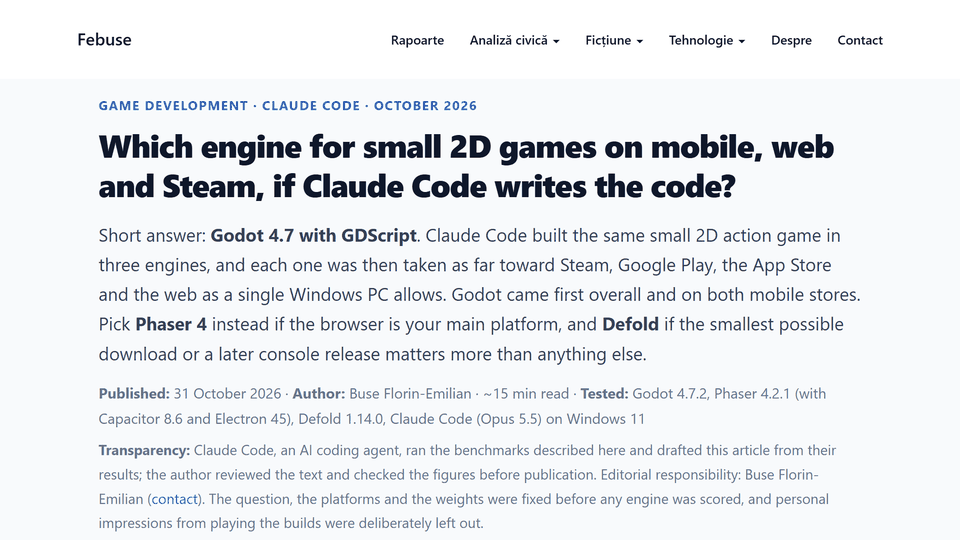
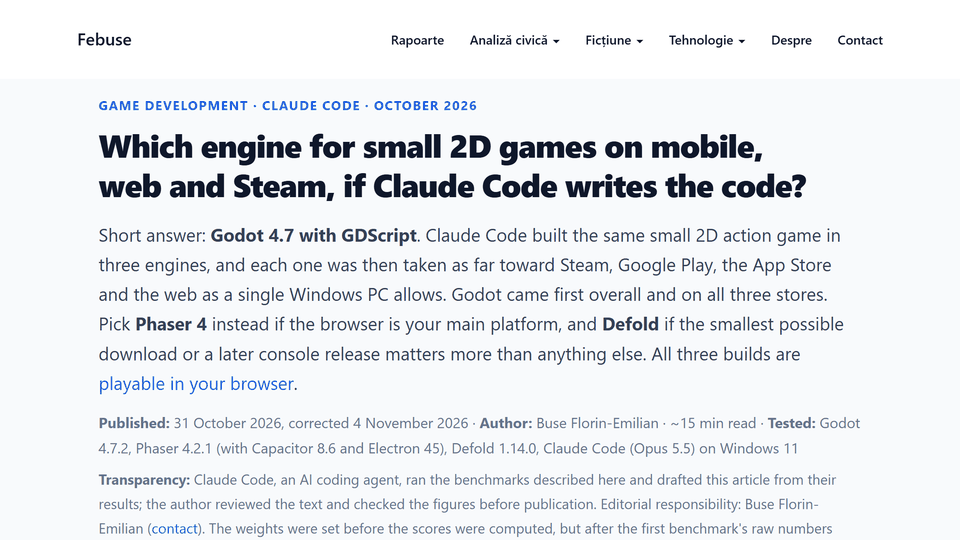
fix: correct the GodotSteam score and the weights note in the engine article
GodotSteam 4.23.2 (20 Oct 2026) lists a Godot 4.7.2 build, so that check now
passes: Godot's Steam score rises from 4.17 to 4.57 and its total from 4.51 to
4.58. The ranking is unchanged. The re-weighting table and the figures that
depend on the score are recomputed, and a dated correction note is added.

The transparency notes now say the weights were set after the first
benchmark's numbers were known, and that Android and iOS joined the question
after it, so this is not a blind test. The thumbnail shows the page's top text,
so it is regenerated too.

diff --git a/claude-code-2d-engines.html b/claude-code-2d-engines.html
@@ -49,14 +49,15 @@ permalink: /claude-code-2d-engines/
 
 <div class="kicker">Game development · Claude Code · October 2026</div>
 <h1>Which engine for small 2D games on mobile, web and Steam, if Claude Code writes the code?</h1>
-<p class="lede">Short answer: <strong>Godot 4.7 with GDScript</strong>. Claude Code built the same small 2D action game in three engines, and each one was then taken as far toward Steam, Google Play, the App Store and the web as a single Windows PC allows. Godot came first overall and on both mobile stores. Pick <strong>Phaser 4</strong> instead if the browser is your main platform, and <strong>Defold</strong> if the smallest possible download or a later console release matters more than anything else. All three builds are <a href="#play">playable in your browser</a>.</p>
-<p class="art-meta"><strong>Published:</strong> 31 October 2026 &middot; <strong>Author:</strong> Buse Florin-Emilian &middot; ~15 min read &middot; <strong>Tested:</strong> Godot 4.7.2, Phaser 4.2.1 (with Capacitor 8.6 and Electron 45), Defold 1.14.0, Claude Code (Opus 5.5) on Windows 11</p>
-<p class="small-note"><strong>Transparency:</strong> Claude Code, an AI coding agent, ran the benchmarks described here and drafted this article from their results; the author reviewed the text and checked the figures before publication. Editorial responsibility: Buse Florin-Emilian (<a href="/#contact">contact</a>). The question, the platforms and the weights were fixed before any engine was scored, and personal impressions from playing the builds were deliberately left out. <strong>Disclosure:</strong> the author also wrote the Claude Code plugin for Defold that the Defold session used (<a href="#benchmark">section 3</a>).</p>
+<p class="lede">Short answer: <strong>Godot 4.7 with GDScript</strong>. Claude Code built the same small 2D action game in three engines, and each one was then taken as far toward Steam, Google Play, the App Store and the web as a single Windows PC allows. Godot came first overall and on all three stores. Pick <strong>Phaser 4</strong> instead if the browser is your main platform, and <strong>Defold</strong> if the smallest possible download or a later console release matters more than anything else. All three builds are <a href="#play">playable in your browser</a>.</p>
+<p class="art-meta"><strong>Published:</strong> 31 October 2026, corrected 4 November 2026 &middot; <strong>Author:</strong> Buse Florin-Emilian &middot; ~15 min read &middot; <strong>Tested:</strong> Godot 4.7.2, Phaser 4.2.1 (with Capacitor 8.6 and Electron 45), Defold 1.14.0, Claude Code (Opus 5.5) on Windows 11</p>
+<p class="small-note"><strong>Transparency:</strong> Claude Code, an AI coding agent, ran the benchmarks described here and drafted this article from their results; the author reviewed the text and checked the figures before publication. Editorial responsibility: Buse Florin-Emilian (<a href="/#contact">contact</a>). The weights were set before the scores were computed, but after the first benchmark's raw numbers were known, and Android and iOS joined the question after that benchmark, so this is not a blind test. Personal impressions from playing the builds were deliberately left out. <strong>Disclosure:</strong> the author also wrote the Claude Code plugin for Defold that the Defold session used (<a href="#benchmark">section 3</a>).</p>
+<p class="small-note"><strong>Correction, 4 November 2026:</strong> this article first gave Godot 4.51 and said a GodotSteam build for Godot 4.7 was unconfirmed. GodotSteam's <a href="https://codeberg.org/GodotSteam/GodotSteam/releases">release notes</a> list a 4.7.2 build, so that check now passes and Godot scores 4.58. The ranking did not change. The note on how the weights were set was also made more precise.</p>
 
 <div class="box warn">
 <h3>The short version</h3>
 <ul>
-  <li><strong>Pick Godot 4.7 (GDScript)</strong> if you want one project that ships to Steam, Google Play, the App Store and the web. It scored <strong>4.51 out of 5</strong>, against 4.05 for Phaser 4 + Capacitor + Electron and 3.85 for Defold 1.14.</li>
+  <li><strong>Pick Godot 4.7 (GDScript)</strong> if you want one project that ships to Steam, Google Play, the App Store and the web. It scored <strong>4.58 out of 5</strong>, against 4.05 for Phaser 4 + Capacitor + Electron and 3.85 for Defold 1.14.</li>
   <li><strong>Claude Code can build a working game in all three.</strong> Each engine got a fresh session; all three finished the same 12-point game and a follow-up change with no human help and no invented APIs. Godot needed the fewest tool calls and made no mistakes it had to correct.</li>
   <li><strong>Phaser is the pick for a web-first game</strong> (a 1.3 MB web build), but its route to Steam through Electron is heavy (358 MB) and its Steam integration is stale. <strong>Defold</strong> makes the smallest builds (9 MB on Windows, about 2.5 MB on Android) and has official console support, but scored lowest on graphics and on the agent loop.</li>
   <li><strong>No engine can sign an iPhone build on Windows.</strong> Every route ends on a rented Mac in the cloud, which is free for public GitHub repositories. Godot's iOS export was the most App Store-ready of the three.</li>
@@ -89,7 +90,7 @@ permalink: /claude-code-2d-engines/
 
 <p>The setup is a solo developer on Windows 11 with no Mac, no iPhone and no artist, a project of 3 to 12 months, and a preference for free, open-source tools. Steam, Google Play and the App Store weigh the same; the web build is a bonus. Three engines were measured hands-on. Thirteen more were screened against documented facts (<a href="#others">section 10</a>).</p>
 
-<p>The arithmetic is simple and fixed in advance. A check scores 5 if it passes, 3 if it partly passes and 1 if it fails. A measured quantity, such as build size or session time, scores 5 for the best engine and loses 2 points for every tenfold gap to the best. Each engine ran once, so <strong>gaps of 0.15 or less are ties</strong>.</p>
+<p>The arithmetic is simple and the same for every engine. A check scores 5 if it passes, 3 if it partly passes and 1 if it fails. A measured quantity, such as build size or session time, scores 5 for the best engine and loses 2 points for every tenfold gap to the best. Each engine ran once, so <strong>gaps of 0.15 or less are ties</strong>.</p>
 
 <h2 id="scores">2. The scores</h2>
 
@@ -98,20 +99,20 @@ permalink: /claude-code-2d-engines/
 <thead><tr><th>Criterion (weight)</th><th>Phaser 4.2.1 + Capacitor + Electron</th><th>Godot 4.7.2 GDScript</th><th>Defold 1.14.0</th></tr></thead>
 <tbody>
 <tr><td>Agent build loop (35)</td><td>4.74</td><td><strong>4.98</strong></td><td>4.36</td></tr>
-<tr><td>Windows/Steam shipping (20)</td><td>2.76</td><td>4.17</td><td><strong>4.20</strong></td></tr>
+<tr><td>Windows/Steam shipping (20)</td><td>2.76</td><td><strong>4.57</strong></td><td>4.20</td></tr>
 <tr><td>Android shipping and testing (20)</td><td>4.01</td><td><strong>4.41</strong></td><td>3.83</td></tr>
 <tr><td>iOS shipping and testing from a Windows PC (20)</td><td>3.60</td><td><strong>4.27</strong></td><td>3.58</td></tr>
 <tr><td>Graphics without an artist (15)</td><td>4.17</td><td><strong>4.50</strong></td><td>2.67</td></tr>
 <tr><td>Web build (5)</td><td><strong>5.00</strong></td><td>3.53</td><td>4.32</td></tr>
 <tr><td>Free and open source (5)</td><td><strong>5.00</strong></td><td><strong>5.00</strong></td><td>3.00</td></tr>
-<tr><td><strong>Weighted total (out of 5)</strong></td><td>4.05</td><td><strong>4.51</strong></td><td>3.85</td></tr>
+<tr><td><strong>Weighted total (out of 5)</strong></td><td>4.05</td><td><strong>4.58</strong></td><td>3.85</td></tr>
 </tbody>
 </table>
 </div>
 
 <p>The weights follow the premise. The <strong>agent loop</strong> carries the most (35 of 120) because the agent builds the game. <strong>Steam, Android and iOS</strong> get 20 each, as three equally important stores. <strong>Graphics</strong> gets 15 because, with no artist, the engine's drawing defaults and the agent's choices are all you get. The <strong>web build</strong> and an <strong>open-source licence</strong> get 5 each, as a bonus and a preference.</p>
 
-<p>Godot's lead over Phaser comes mostly from Steam, where Phaser depends on Electron, and then from iOS, the loop, Android and graphics; Phaser wins only the web column. Its lead over Defold comes from graphics, the loop and the two mobile criteria, plus Defold's non-OSI licence. Defold edges Godot on Steam, by 0.03, thanks to its tiny build. <a href="#weights">Section 9</a> shows that no reasonable re-weighting changes the order.</p>
+<p>Godot's lead over Phaser comes mostly from Steam, where Phaser depends on Electron, and then from iOS, the loop, Android and graphics; Phaser wins only the web column. Its lead over Defold comes from graphics, the loop and the two mobile criteria, plus Defold's non-OSI licence and a smaller margin on Steam, where Defold's tiny build doesn't make up for needing a cloud build server. <a href="#weights">Section 9</a> shows that no reasonable re-weighting changes the order.</p>
 
 <h2 id="benchmark">3. The benchmark: one game, three engines</h2>
 
@@ -152,7 +153,7 @@ permalink: /claude-code-2d-engines/
 
 <p>Godot and Defold export native Windows executables. Phaser runs in a browser engine, so reaching Steam means wrapping it in Electron, which bundles Chromium. The measured Windows builds were <strong>358 MB for Phaser + Electron, 104 MB for Godot and 9 MB for Defold</strong>.</p>
 
-<p>The Steam integration splits them further. The most-used Steamworks binding for Node, steamworks.js, last shipped a release in August 2024, and the Steam overlay only draws over Electron with a GPU workaround switch (<code>--in-process-gpu</code>). Godot uses the community GodotSteam extension, which is active and moved from GitHub to Codeberg in October 2026; a build for 4.7 had not been confirmed when this was written. Defold's official Steam extension had a release in June 2026, but every Defold native extension, Steam included, is compiled on Defold's free cloud build server, which publishes no service guarantee; the alternative is self-hosting that build server in Docker.</p>
+<p>The Steam integration splits them further. The most-used Steamworks binding for Node, steamworks.js, last shipped a release in August 2024, and the Steam overlay only draws over Electron with a GPU workaround switch (<code>--in-process-gpu</code>). Godot uses the community GodotSteam extension, which moved from GitHub to Codeberg in October 2026 and whose 20 October release includes a Godot 4.7.2 build, although no game in this test has loaded it yet. Defold's official Steam extension had a release in June 2026, but every Defold native extension, Steam included, is compiled on Defold's free cloud build server, which publishes no service guarantee; the alternative is self-hosting that build server in Docker.</p>
 
 <h2 id="android">5. Android</h2>
 
@@ -213,8 +214,8 @@ permalink: /claude-code-2d-engines/
 <thead><tr><th>If your priority is…</th><th>Pick</th><th>Why</th></tr></thead>
 <tbody>
 <tr><td>One codebase for Steam and both mobile stores, web as a bonus</td><td><strong>Godot 4.7, GDScript</strong></td><td>First in every weighting tried, including iOS weighted from zero to three times Steam</td></tr>
-<tr><td>The browser first (web portals, itch.io, instant play)</td><td><strong>Phaser 4</strong>, with Capacitor for mobile and Electron for Steam</td><td>1.3 MB web build; it ties Godot once the web carries about 27% of the weight, more than any single store</td></tr>
-<tr><td>The smallest downloads, or mobile judged only on raw build quality</td><td><strong>Defold</strong></td><td>9 MB on Windows, 2.5 MB on Android, an unsigned iOS app from Windows; it draws level with Godot only if graphics and mobile features are ignored</td></tr>
+<tr><td>The browser first (web portals, itch.io, instant play)</td><td><strong>Phaser 4</strong>, with Capacitor for mobile and Electron for Steam</td><td>1.3 MB web build; it ties Godot once the web carries about 30% of the weight, more than any single store</td></tr>
+<tr><td>The smallest downloads, or mobile judged only on raw build quality</td><td><strong>Defold</strong></td><td>9 MB on Windows, 2.5 MB on Android, an unsigned iOS app from Windows; it comes within a tie of Godot only if graphics and mobile features are ignored</td></tr>
 <tr><td>A console release later</td><td><strong>Defold</strong>, or Godot through a porting service</td><td>Defold supports Nintendo Switch, PlayStation and, since 1.14.0, Xbox, free for approved developers; Godot reaches consoles through paid third parties such as W4 Games</td></tr>
 <tr><td>Mobile first, Steam not important</td><td><strong>Godot</strong>, but also try Flutter + Flame</td><td>With Steam's weight at zero Godot still leads, 4.58 to 4.31</td></tr>
 <tr><td>You want C#</td><td>Godot with GDScript anyway</td><td>Godot's C# can't export to the web, and its iOS export is refused on Windows</td></tr>
@@ -232,17 +233,17 @@ permalink: /claude-code-2d-engines/
 <table class="table table-striped">
 <thead><tr><th>Weights (Steam / Android / iOS)</th><th>Phaser</th><th>Godot</th><th>Defold</th></tr></thead>
 <tbody>
-<tr><td>Equal, 20 / 20 / 20 (this article)</td><td>4.05</td><td><strong>4.51</strong></td><td>3.85</td></tr>
-<tr><td>By store game revenue, 10.6 / 18.0 / 31.4</td><td>4.11</td><td><strong>4.52</strong></td><td>3.79</td></tr>
-<tr><td>Steam 20, mobile split by spending, 20 / 14.5 / 25.5</td><td>4.03</td><td><strong>4.51</strong></td><td>3.83</td></tr>
-<tr><td>Steam ahead, 30 / 10.9 / 19.1</td><td>3.95</td><td><strong>4.49</strong></td><td>3.88</td></tr>
-<tr><td>Steam far ahead, 40 / 7.3 / 12.7</td><td>3.87</td><td><strong>4.48</strong></td><td>3.92</td></tr>
-<tr><td>Equal, plus a console criterion weighted like Steam</td><td>3.61</td><td><strong>4.30</strong></td><td>4.01</td></tr>
+<tr><td>Equal, 20 / 20 / 20 (this article)</td><td>4.05</td><td><strong>4.58</strong></td><td>3.85</td></tr>
+<tr><td>By store game revenue, 10.6 / 18.0 / 31.4</td><td>4.11</td><td><strong>4.55</strong></td><td>3.79</td></tr>
+<tr><td>Steam 20, mobile split by spending, 20 / 14.5 / 25.5</td><td>4.03</td><td><strong>4.57</strong></td><td>3.83</td></tr>
+<tr><td>Steam ahead, 30 / 10.9 / 19.1</td><td>3.95</td><td><strong>4.59</strong></td><td>3.88</td></tr>
+<tr><td>Steam far ahead, 40 / 7.3 / 12.7</td><td>3.87</td><td><strong>4.62</strong></td><td>3.92</td></tr>
+<tr><td>Equal, plus a console criterion weighted like Steam</td><td>3.61</td><td><strong>4.35</strong></td><td>4.01</td></tr>
 </tbody>
 </table>
 </div>
 
-<p><strong>Godot is first in every row.</strong> No Steam weight from 0 to 400 lets another engine overtake it, because Godot is never far behind on any platform. Adding consoles is the only change that helps Defold (scored 5 for official support, Godot 3 for paid porting, Phaser 1 for none), and even then Defold draws level only when consoles weigh about twice as much as Steam.</p>
+<p><strong>Godot is first in every row.</strong> No Steam weight from 0 to 400 lets another engine overtake it, because Godot is never far behind on any platform. Adding consoles is the only change that helps Defold (scored 5 for official support, Godot 3 for paid porting, Phaser 1 for none), and even then Defold draws level only when consoles weigh about 2.2 times as much as Steam.</p>
 
 <h2 id="others">10. The other engines</h2>
 
@@ -310,16 +311,16 @@ No Godot 4.8 beta. No C# (no web export; iOS export is refused off macOS).
 <ul>
   <li><strong>One run per engine.</strong> The three sessions ran side by side on one machine, and their clocks started at different points. Treat small gaps as ties.</li>
   <li><strong>Nothing has run on a phone.</strong> The Android check was build-only and the iOS check export-only; nothing was compiled for iOS. The benchmark game has no touch controls yet.</li>
-  <li><strong>Three of Godot's iOS points rest on unverified evidence:</strong> 120 Hz under its OpenGL ES renderer, and its Apple plugin's support for 4.7 in purchases and Game Center. Marking all three as partial passes still leaves Godot first, at 4.44.</li>
-  <li><strong>GodotSteam's 4.7 build</strong> was not confirmed at the time of writing.</li>
+  <li><strong>Three of Godot's iOS points rest on unverified evidence:</strong> 120 Hz under its OpenGL ES renderer, and its Apple plugin's support for 4.7 in purchases and Game Center. Marking all three as partial passes still leaves Godot first, at 4.50.</li>
+  <li><strong>No build has called Steamworks yet.</strong> GodotSteam's release notes list a 4.7.2 build, but no game in this test has loaded it.</li>
   <li><strong>Defold's small Android package</strong> was measured on a project with no native extensions; a Defold game that also ships on Steam would most likely build through the cloud server too.</li>
   <li><strong>The graphics score</strong> reflects what one agent chose to draw as much as each engine's defaults. Only about 3–5 of the 11 rubric points between Godot and Defold come from defaults.</li>
-  <li><strong>Everything is dated 31 October 2026.</strong> Engines and store rules change monthly; Google raises the target API every August and Apple the SDK every April.</li>
+  <li><strong>Everything is dated 31 October 2026, apart from the 4 November correction.</strong> Engines and store rules change monthly; Google raises the target API every August and Apple the SDK every April.</li>
 </ul>
 
 <h2 id="sources">13. Sources</h2>
 
-<p><strong>Engines:</strong> <a href="https://docs.godotengine.org/en/stable/tutorials/export/exporting_for_web.html">Godot: exporting for the web</a> · <a href="https://docs.godotengine.org/en/stable/tutorials/export/exporting_for_ios.html">Godot: exporting for iOS</a> · <a href="https://raw.githubusercontent.com/godotengine/godot/4.7.2-stable/misc/dist/apple_embedded_xcode/godot_apple_embedded/godot_apple_embedded-Info.plist">Godot 4.7.2 iOS Info.plist template</a> · <a href="https://docs.godotengine.org/en/stable/classes/class_virtualjoystick.html">Godot VirtualJoystick</a> · <a href="https://github.com/godotengine/godot/issues/122379">Godot Simulator issue #122379</a> · <a href="https://github.com/GodotSteam/GodotSteam">GodotSteam</a> · <a href="https://github.com/xibbon/GodotApplePlugins">GodotApplePlugins</a> · <a href="https://defold.com/llms/manuals/extensions.md">Defold native extensions</a> · <a href="https://defold.com/manuals/ios/">Defold iOS manual</a> · <a href="https://defold.com/build-size">Defold build size</a> · <a href="https://defold.com/license/">Defold license</a> · <a href="https://github.com/defold/defold/pull/13597">Defold PR #13597 (120 Hz)</a> · <a href="https://gamedev.net/news/6398-defold-release-1140/">Defold 1.14.0 release</a> · <a href="https://github.com/Infuscy/DefoldClaude">DefoldClaude plugin (the author's)</a> ·<a href="https://registry.npmjs.org/steamworks.js">steamworks.js on npm</a> · <a href="https://github.com/JamesMoulang/electron-steam-notes">Electron and the Steam overlay</a> · <a href="https://github.com/ionic-team/capacitor/blob/8.6.0/ios-spm-template/App/App/Info.plist">Capacitor 8.6.0 iOS template</a> · <a href="https://bugs.webkit.org/show_bug.cgi?id=294338">WebKit bug 294338 (60 Hz cap)</a> · <a href="https://www.w4games.com/w4consoles">W4 Games consoles</a>.</p>
+<p><strong>Engines:</strong> <a href="https://docs.godotengine.org/en/stable/tutorials/export/exporting_for_web.html">Godot: exporting for the web</a> · <a href="https://docs.godotengine.org/en/stable/tutorials/export/exporting_for_ios.html">Godot: exporting for iOS</a> · <a href="https://raw.githubusercontent.com/godotengine/godot/4.7.2-stable/misc/dist/apple_embedded_xcode/godot_apple_embedded/godot_apple_embedded-Info.plist">Godot 4.7.2 iOS Info.plist template</a> · <a href="https://docs.godotengine.org/en/stable/classes/class_virtualjoystick.html">Godot VirtualJoystick</a> · <a href="https://github.com/godotengine/godot/issues/122379">Godot Simulator issue #122379</a> · <a href="https://codeberg.org/GodotSteam/GodotSteam/releases">GodotSteam releases</a> · <a href="https://github.com/xibbon/GodotApplePlugins">GodotApplePlugins</a> · <a href="https://defold.com/llms/manuals/extensions.md">Defold native extensions</a> · <a href="https://defold.com/manuals/ios/">Defold iOS manual</a> · <a href="https://defold.com/build-size">Defold build size</a> · <a href="https://defold.com/license/">Defold license</a> · <a href="https://github.com/defold/defold/pull/13597">Defold PR #13597 (120 Hz)</a> · <a href="https://gamedev.net/news/6398-defold-release-1140/">Defold 1.14.0 release</a> · <a href="https://github.com/Infuscy/DefoldClaude">DefoldClaude plugin (the author's)</a> ·<a href="https://registry.npmjs.org/steamworks.js">steamworks.js on npm</a> · <a href="https://github.com/JamesMoulang/electron-steam-notes">Electron and the Steam overlay</a> · <a href="https://github.com/ionic-team/capacitor/blob/8.6.0/ios-spm-template/App/App/Info.plist">Capacitor 8.6.0 iOS template</a> · <a href="https://bugs.webkit.org/show_bug.cgi?id=294338">WebKit bug 294338 (60 Hz cap)</a> · <a href="https://www.w4games.com/w4consoles">W4 Games consoles</a>.</p>
 
 <p><strong>Stores and tooling:</strong> <a href="https://developer.apple.com/news/?id=k1mtkt1k">Apple Developer News, 9 Sep 2026</a> · <a href="https://developer.apple.com/documentation/technotes/tn3192-migrating-your-app-from-the-deprecated-uirequiresfullscreen-key">Apple TN3192</a> · <a href="https://developer.apple.com/documentation/technotes/tn3187-migrating-to-the-uikit-scene-based-life-cycle">Apple TN3187</a> · <a href="https://developer.apple.com/news/upcoming-requirements/">Apple upcoming requirements</a> · <a href="https://help.apple.com/itc/transporteruserguide/en.lproj/static.html">Transporter user guide</a> · <a href="https://developer.apple.com/help/app-store-connect/test-a-beta-version/testflight-overview">TestFlight overview</a> · <a href="https://docs.github.com/en/billing/reference/actions-runner-pricing">GitHub Actions runner pricing</a> · <a href="https://codemagic.io/pricing/">Codemagic pricing</a> · <a href="https://developer.android.com/google/play/requirements/target-sdk">Google Play target API</a> · <a href="https://developer.android.com/guide/practices/page-sizes">Android 16 KB page sizes</a> · <a href="https://developer.android.com/about/versions/16/behavior-changes-16">Android 16 behaviour changes</a>.</p>
 
@@ -327,6 +328,6 @@ No Godot 4.8 beta. No C# (no web export; iOS export is refused off macOS).
 
 <p><strong>Other engines:</strong> <a href="https://unity.com/legal/terms-of-service">Unity Terms of Service</a> · <a href="https://docs.unity3d.com/6000.3/Documentation/Manual/iphone-BuildProcess.html">Unity iOS build process</a> · <a href="https://gamemaker.io/en/get">GameMaker pricing</a> · <a href="https://docs.flutter.dev/deployment/ios">Flutter iOS deployment</a> · <a href="https://github.com/MonoGame/MonoGame/issues/9571">MonoGame #9571</a> · <a href="https://wiki.gdevelop.io/gdevelop5/publishing/ios/">GDevelop iOS publishing</a>.</p>
 
-<p class="small-note">Last updated: 31 October 2026. The measurements come from a desktop benchmark on 28 October 2026, an Android build check on 29–30 October and an iOS export check on 30–31 October, all on one Windows 11 PC; the documented checks were read from each engine's docs and source code at the versions named above. The pass, partial and fail calls and the weights were fixed before scoring. AI-assisted drafting was reviewed by the author: a transparency statement under Article 50 of Regulation (EU) 2024/1689 (the AI Act).</p>
+<p class="small-note">Last updated: 4 November 2026. The measurements come from a desktop benchmark on 28 October 2026, an Android build check on 29–30 October and an iOS export check on 30–31 October, all on one Windows 11 PC; the documented checks were read from each engine's docs and source code at the versions named above. The pass, partial and fail calls and the weights are judgement calls, set before the scores were computed but after the first benchmark's numbers were known. AI-assisted drafting was reviewed by the author: a transparency statement under Article 50 of Regulation (EU) 2024/1689 (the AI Act).</p>
 
 </div>
